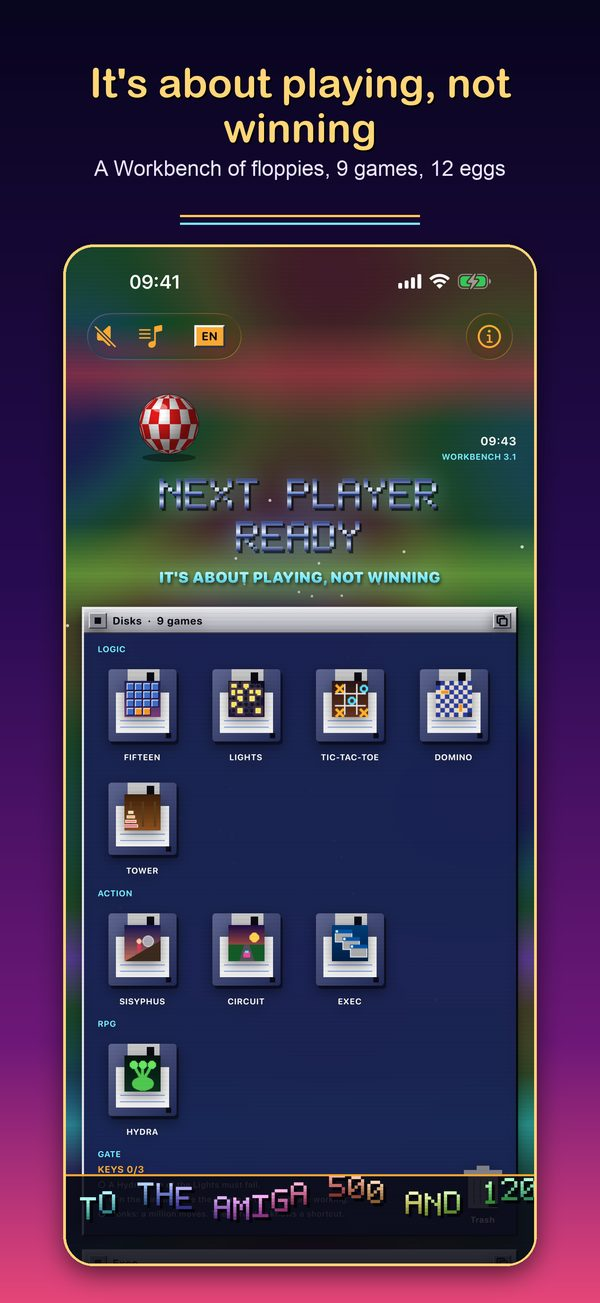
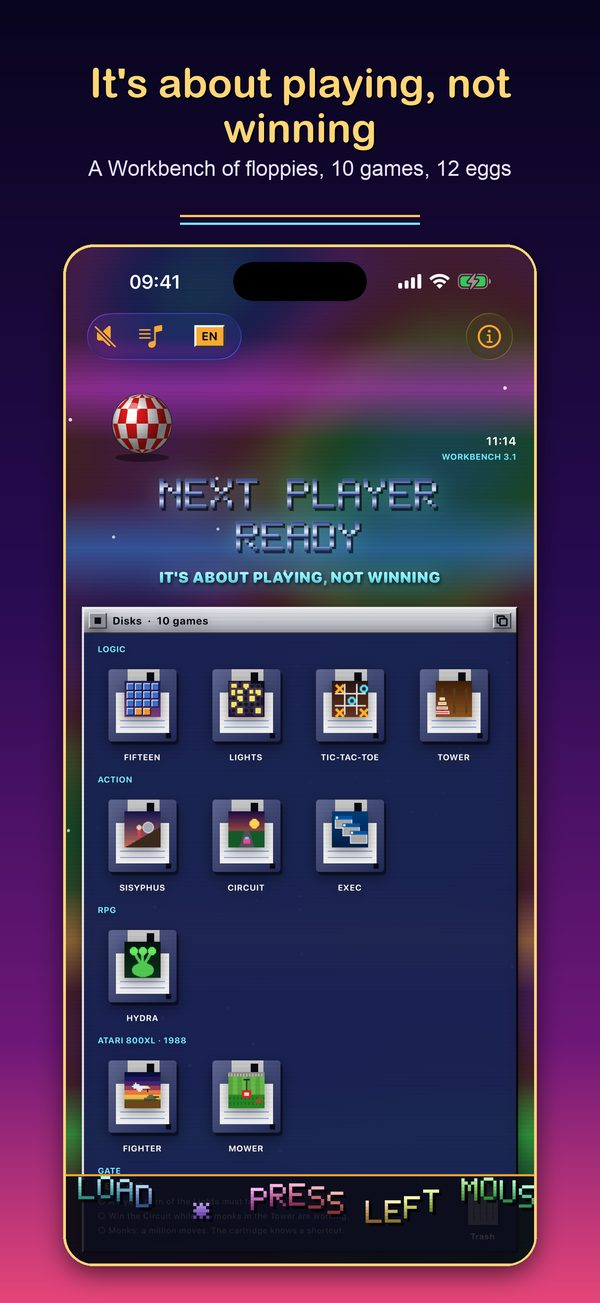
Version 1.2: Atari 800XL games, ten games, new screenshots

diff --git a/index.html b/index.html
@@ -4,9 +4,9 @@
 <meta charset="utf-8">
 <meta name="viewport" content="width=device-width, initial-scale=1">
 <title>Next Player Ready – insert disk in df0:</title>
-<meta name="description" content="Deväť retro hier pre iPhone, iPad a Mac: logika, plošinovka, preteky a RPG. Bez reklám, bez háčikov.">
+<meta name="description" content="Desať retro hier pre iPhone, iPad a Mac: logika, plošinovka, preteky, RPG a dve hry z Atari 800XL. Bez reklám, bez háčikov.">
 <meta property="og:title" content="Next Player Ready">
-<meta property="og:description" content="Just play. Don't win. Nine retro games for iPhone, iPad and Mac.">
+<meta property="og:description" content="Just play. Don't win. Ten retro games for iPhone, iPad and Mac.">
 <meta property="og:image" content="https://dzanino.github.io/just-play/assets/og.jpg">
 <meta property="og:url" content="https://dzanino.github.io/just-play/">
 <link rel="icon" href="assets/favicon.png">
@@ -30,7 +30,7 @@
     <img class="icon" src="assets/icon.png" alt="Next Player Ready app icon" width="200" height="200">
     <h1>NEXT PLAYER READY</h1>
     <p class="tag" data-i18n="tag">Je to o hraní, nie o výhre.</p>
-    <p class="lead" data-i18n="lead">Deväť retro hier pre iPhone, iPad a Mac, Workbench s disketami, 12 vajíčok a tri kľúče k skrytej Diskete 2. Bez reklám, bez háčikov.</p>
+    <p class="lead" data-i18n="lead">Desať retro hier pre iPhone, iPad a Mac z čias Atari 800XL a Amigy, Workbench s disketami, 12 vajíčok a tri kľúče k skrytej Diskete 2. Bez reklám, bez háčikov.</p>
     <a class="store" id="store" href="#" aria-disabled="true"><span data-i18n="soon">Čoskoro v App Store</span></a>
   </section>
 
@@ -44,7 +44,7 @@
   </section>
 
   <section class="games">
-    <h2 data-i18n="gh">Deväť hier</h2>
+    <h2 data-i18n="gh">Desať hier</h2>
     <ul id="games"></ul>
   </section>
 
@@ -64,16 +64,16 @@
 <script src="i18n.js"></script>
 <script>
 const GAMES = {
-  sk: [["Pätnástka","posúvačka s háčikom v parite"],["Svetlá","zhasni všetky svetlá"],["Piškvorky","súper nerobí chyby"],["Domino","pokry šachovnicu"],["Veža","mnísi pracujú, aj keď hráš inde"],["Sisyfos","plošinovka s kameňom a kombom"],["Okruh","nočné preteky so závetrím"],["Exec","okná sa množia"],["Hydra","za každú hlavu dve"]],
-  en: [["Fifteen","sliding puzzle with a parity twist"],["Lights","switch them all off"],["Tic-Tac-Toe","an opponent without mistakes"],["Domino","cover the chessboard"],["Tower","the monks keep working"],["Sisyphus","boulder platformer with combos"],["Circuit","night racing with slipstream"],["Exec","windows multiply"],["Hydra","cut one head, two grow back"]],
-  pl: [["Piętnastka","układanka z haczykiem"],["Światła","zgaś wszystkie"],["Kółko i krzyżyk","przeciwnik bez błędów"],["Domino","pokryj szachownicę"],["Wieża","mnisi pracują dalej"],["Syzyf","platformówka z głazem"],["Tor","nocne wyścigi"],["Exec","okna się mnożą"],["Hydra","za każdą głowę dwie"]],
-  de: [["15-Puzzle","Schiebepuzzle mit Haken"],["Lichter","schalte alle aus"],["Tic-Tac-Toe","ein Gegner ohne Fehler"],["Domino","bedecke das Schachbrett"],["Turm","die Mönche arbeiten weiter"],["Sisyphos","Jump'n'Run mit Felsbrocken"],["Rundkurs","Nachtrennen mit Windschatten"],["Exec","Fenster vermehren sich"],["Hydra","für jeden Kopf zwei"]]
+  sk: [["Pätnástka","posúvačka s háčikom v parite"],["Svetlá","zhasni všetky svetlá"],["Piškvorky","súper nerobí chyby"],["Veža","mnísi pracujú, aj keď hráš inde"],["Sisyfos","plošinovka s kameňom a kombom"],["Okruh","nočné preteky so závetrím"],["Exec","okná sa množia"],["Hydra","za každú hlavu dve"],["Stíhačka","Atari 800XL: štart z lietadlovej lode, bomby a zameriavač"],["Kosačka","Atari 800XL: pokos trávnik, pozor na psa a susedove kvety"]],
+  en: [["Fifteen","sliding puzzle with a parity twist"],["Lights","switch them all off"],["Tic-Tac-Toe","an opponent without mistakes"],["Tower","the monks keep working"],["Sisyphus","boulder platformer with combos"],["Circuit","night racing with slipstream"],["Exec","windows multiply"],["Hydra","cut one head, two grow back"],["Fighter","Atari 800XL: take off from a carrier, bombs and a sight"],["Mower","Atari 800XL: mow the lawn, mind the dog and the neighbour's flowers"]],
+  pl: [["Piętnastka","układanka z haczykiem"],["Światła","zgaś wszystkie"],["Kółko i krzyżyk","przeciwnik bez błędów"],["Wieża","mnisi pracują dalej"],["Syzyf","platformówka z głazem"],["Tor","nocne wyścigi"],["Exec","okna się mnożą"],["Hydra","za każdą głowę dwie"],["Myśliwiec","Atari 800XL: start z lotniskowca, bomby i celownik"],["Kosiarka","Atari 800XL: skoś trawnik, uważaj na psa i kwiaty sąsiada"]],
+  de: [["15-Puzzle","Schiebepuzzle mit Haken"],["Lichter","schalte alle aus"],["Tic-Tac-Toe","ein Gegner ohne Fehler"],["Turm","die Mönche arbeiten weiter"],["Sisyphos","Jump'n'Run mit Felsbrocken"],["Rundkurs","Nachtrennen mit Windschatten"],["Exec","Fenster vermehren sich"],["Hydra","für jeden Kopf zwei"],["Jäger","Atari 800XL: Start vom Träger, Bomben und Visier"],["Rasenmäher","Atari 800XL: Rasen mähen, Vorsicht vor Hund und Nachbars Blumen"]]
 };
 const SHOT_LANG = { sk: "sk", en: "en-US", pl: "pl", de: "de-DE" };
 function renderPage(lang) {
   document.getElementById("games").innerHTML = GAMES[lang].map(([n, d]) => `<li><b>${n}</b><span>${d}</span></li>`).join("");
   const rail = document.getElementById("rail");
-  rail.innerHTML = [1, 2, 3, 4, 5, 6, 7, 8].map(i => `<img loading="lazy" src="assets/shots/${SHOT_LANG[lang]}/0${i}.jpg" alt="" onerror="this.remove()">`).join("");
+  rail.innerHTML = [1, 2, 3, 4, 5, 6, 7, 8, 9, 10].map(i => `<img loading="lazy" src="assets/shots/${SHOT_LANG[lang]}/${String(i).padStart(2, "0")}.jpg" alt="" onerror="this.remove()">`).join("");
 }
 I18N.init(renderPage);
 </script>

diff --git a/i18n.js b/i18n.js
@@ -3,37 +3,37 @@ const I18N = (() => {
   const T = {
     sk: {
       tag: "Je to o hraní, nie o výhre.",
-      lead: "Deväť retro hier pre iPhone, iPad a Mac, Workbench s disketami, 12 vajíčok a tri kľúče k skrytej Diskete 2. Bez reklám, bez háčikov.",
+      lead: "Desať retro hier pre iPhone, iPad a Mac z čias Atari 800XL a Amigy, Workbench s disketami, 12 vajíčok a tri kľúče k skrytej Diskete 2. Bez reklám, bez háčikov.",
       soon: "Čoskoro v App Store", m1h: "HRA", m1: "Úrovne, ktoré sa dajú vyhrať. Každá ďalšia je o kúsok ťažšia.",
       m2h: "PARADOX", m2: "Verzie, ktoré vyhrať nejde. Tlačidlo PREČO NIE ukáže matematický dôkaz.",
-      gh: "Deväť hier", f1: "Hrubé pixely alebo hladká 256-farebná grafika.", f2: "Skladby zo štvorkanálového čipu a jukebox s 27 nahranými skladbami z Amigy, PC aj Korgu, od roku 1994 po 2026. Pribúdajú hraním.",
+      gh: "Desať hier", f1: "Hrubé pixely alebo hladká 256-farebná grafika.", f2: "Skladby zo štvorkanálového čipu a jukebox s 27 nahranými skladbami z Amigy, PC aj Korgu, od roku 1994 po 2026. Pribúdajú hraním.",
       f3: "Hry sa ovplyvňujú navzájom ako úlohy na starom počítači.", f4h: "BEZ REKLÁM", f4: "Žiadne reklamy ani sledovanie. Jedna cena, v hrách nič nedokupuješ. Celý album hudby si môžeš kúpiť naraz alebo ho dostaneš hraním.",
       privacy: "Ochrana súkromia", support: "Podpora"
     },
     en: {
       tag: "Just play. Don't win.",
-      lead: "Nine retro games for iPhone, iPad and Mac, a Workbench full of floppies, 12 Easter eggs and three keys to the hidden Disk 2. No ads, no hooks.",
+      lead: "Ten retro games for iPhone, iPad and Mac from the days of the Atari 800XL and the Amiga, a Workbench full of floppies, 12 Easter eggs and three keys to the hidden Disk 2. No ads, no hooks.",
       soon: "Coming soon to the App Store", m1h: "PLAY", m1: "Levels you can win. Each one a little harder.",
       m2h: "PARADOX", m2: "Versions you can never win. The WHY NOT button shows the mathematical proof.",
-      gh: "Nine games", f1: "Chunky pixels or smooth 256-colour art.", f2: "Tracks from a four-channel sound chip and a jukebox with 27 recorded songs, made on an Amiga, a PC and a Korg, from 1994 to 2026. They arrive as you play.",
+      gh: "Ten games", f1: "Chunky pixels or smooth 256-colour art.", f2: "Tracks from a four-channel sound chip and a jukebox with 27 recorded songs, made on an Amiga, a PC and a Korg, from 1994 to 2026. They arrive as you play.",
       f3: "The games affect each other like tasks on an old computer.", f4h: "NO ADS", f4: "No ads, no tracking. One price, nothing to buy inside the games. Buy the full music album at once, or get it by playing.",
       privacy: "Privacy", support: "Support"
     },
     pl: {
       tag: "Liczy się gra, nie wygrana.",
-      lead: "Dziewięć gier retro na iPhone'a, iPada i Maca, Workbench z dyskietkami, 12 jajek i trzy klucze do ukrytej Dyskietki 2. Bez reklam, bez haczyków.",
+      lead: "Dziesięć gier retro na iPhone'a, iPada i Maca z czasów Atari 800XL i Amigi, Workbench z dyskietkami, 12 jajek i trzy klucze do ukrytej Dyskietki 2. Bez reklam, bez haczyków.",
       soon: "Wkrótce w App Store", m1h: "GRA", m1: "Poziomy, które da się wygrać. Każdy trochę trudniejszy.",
       m2h: "PARADOKS", m2: "Wersje nie do wygrania. Przycisk DLACZEGO NIE pokazuje dowód matematyczny.",
-      gh: "Dziewięć gier", f1: "Grube piksele albo gładka grafika w 256 kolorach.", f2: "Utwory z czterokanałowego układu i szafa grająca z 27 nagranymi utworami, z Amigi, PC i Korga, od 1994 do 2026. Przybywają podczas gry.",
+      gh: "Dziesięć gier", f1: "Grube piksele albo gładka grafika w 256 kolorach.", f2: "Utwory z czterokanałowego układu i szafa grająca z 27 nagranymi utworami, z Amigi, PC i Korga, od 1994 do 2026. Przybywają podczas gry.",
       f3: "Gry wpływają na siebie jak zadania na starym komputerze.", f4h: "BEZ REKLAM", f4: "Bez reklam i śledzenia. Jedna cena, w grach niczego nie dokupujesz. Cały album muzyczny kupisz od razu albo zdobędziesz grając.",
       privacy: "Prywatność", support: "Pomoc"
     },
     de: {
       tag: "Spielen statt gewinnen.",
-      lead: "Neun Retro-Spiele für iPhone, iPad und Mac, eine Workbench voller Disketten, 12 Easter Eggs und drei Schlüssel zur versteckten Disk 2. Keine Werbung, keine Haken.",
+      lead: "Zehn Retro-Spiele für iPhone, iPad und Mac aus der Zeit von Atari 800XL und Amiga, eine Workbench voller Disketten, 12 Easter Eggs und drei Schlüssel zur versteckten Disk 2. Keine Werbung, keine Haken.",
       soon: "Bald im App Store", m1h: "SPIEL", m1: "Level, die man gewinnen kann. Jedes etwas schwerer.",
       m2h: "PARADOX", m2: "Versionen, die man nie gewinnt. WARUM NICHT zeigt den mathematischen Beweis.",
-      gh: "Neun Spiele", f1: "Grobe Pixel oder glatte 256-Farben-Grafik.", f2: "Stücke aus einem Vierkanal-Soundchip und eine Jukebox mit 27 aufgenommenen Stücken, auf Amiga, PC und Korg, von 1994 bis 2026. Sie kommen beim Spielen dazu.",
+      gh: "Zehn Spiele", f1: "Grobe Pixel oder glatte 256-Farben-Grafik.", f2: "Stücke aus einem Vierkanal-Soundchip und eine Jukebox mit 27 aufgenommenen Stücken, auf Amiga, PC und Korg, von 1994 bis 2026. Sie kommen beim Spielen dazu.",
       f3: "Die Spiele beeinflussen sich wie Tasks auf einem alten Computer.", f4h: "OHNE WERBUNG", f4: "Keine Werbung, kein Tracking. Ein Preis, in den Spielen gibt es nichts zu kaufen. Das ganze Musikalbum kaufst du auf einmal oder bekommst es beim Spielen.",
       privacy: "Datenschutz", support: "Hilfe"
     }
